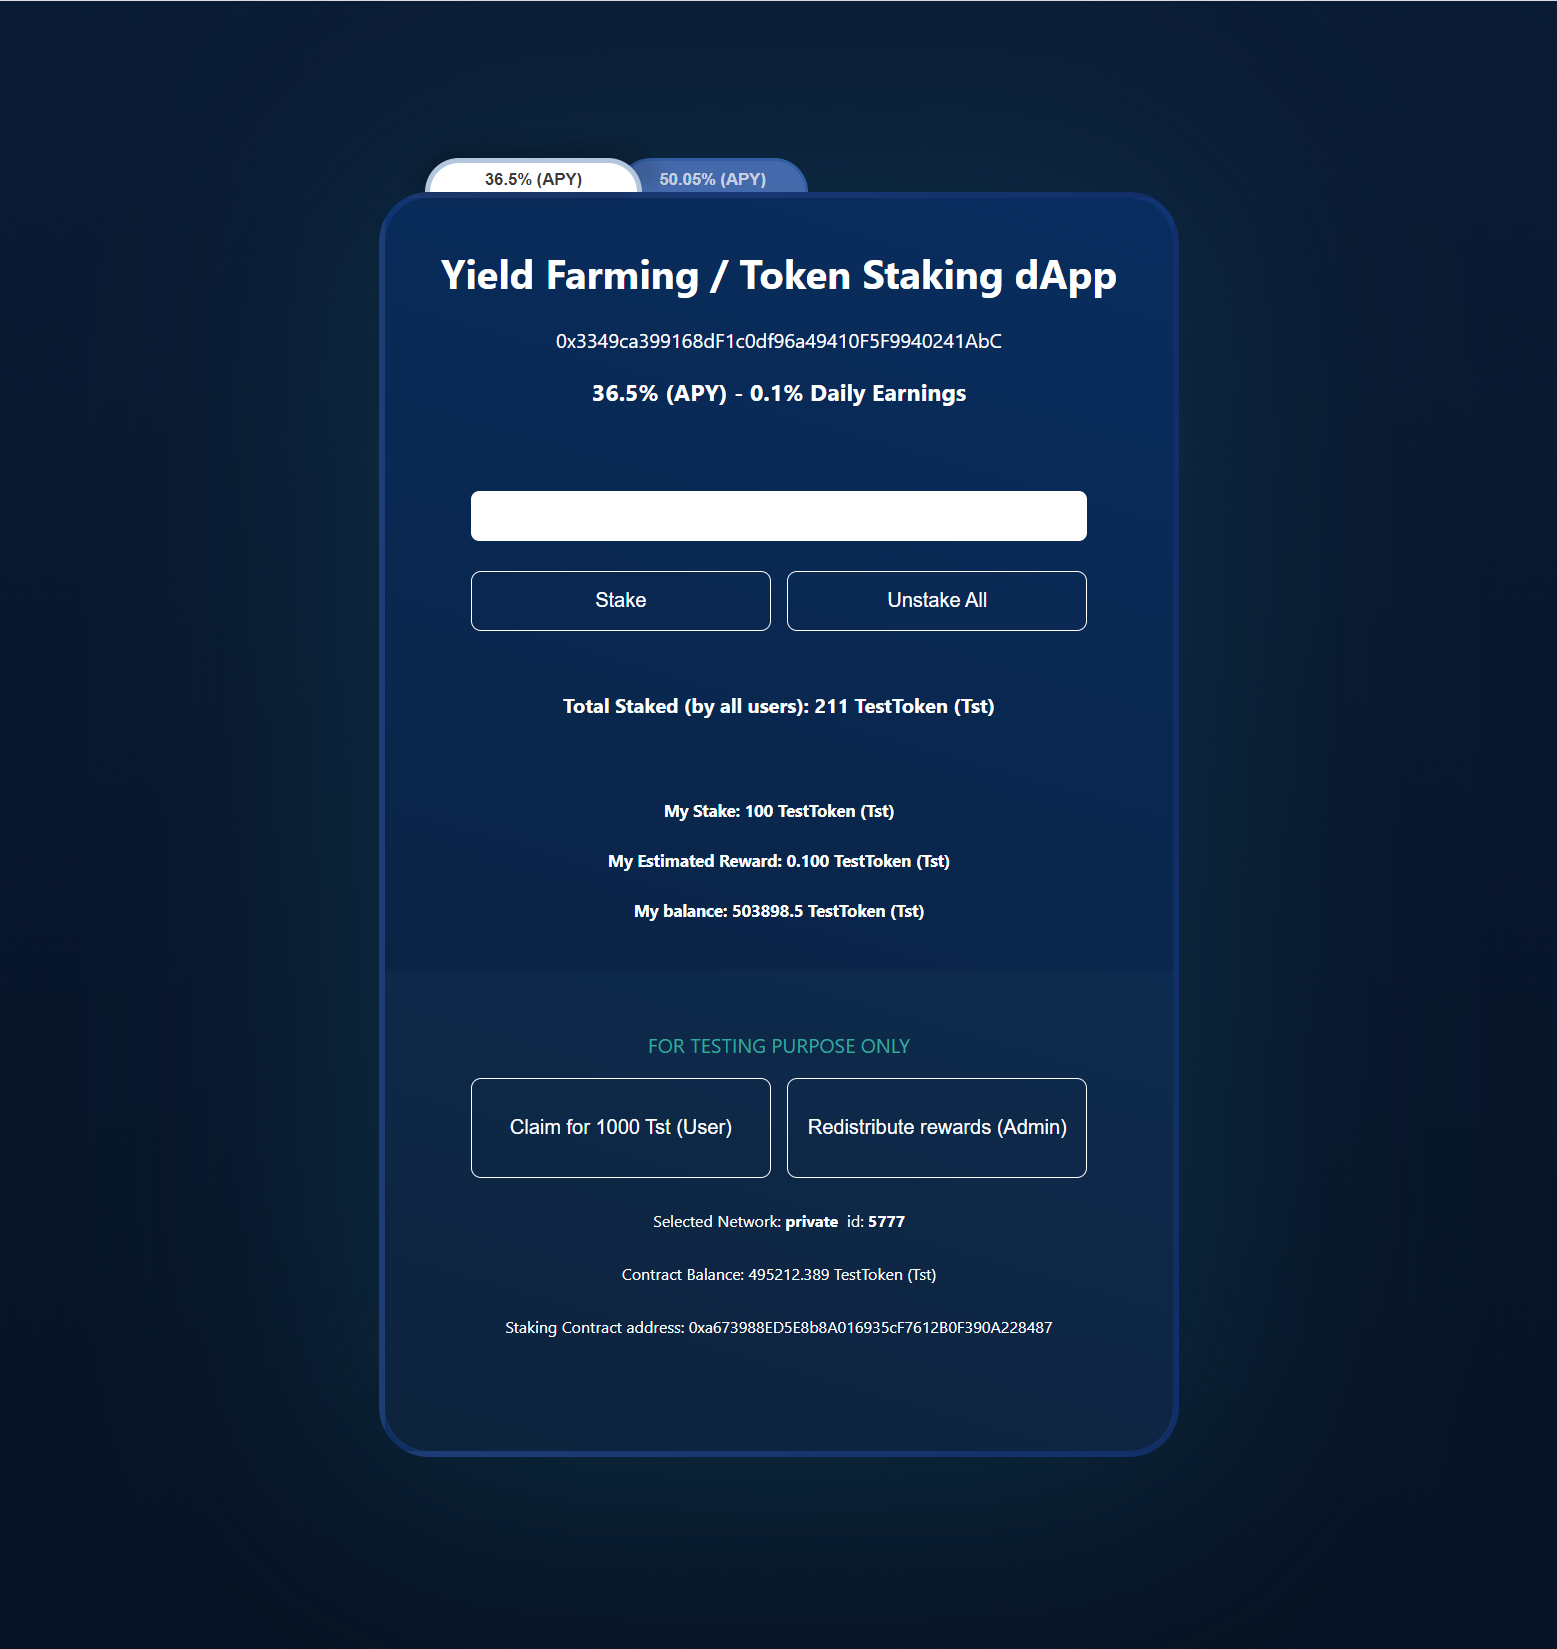
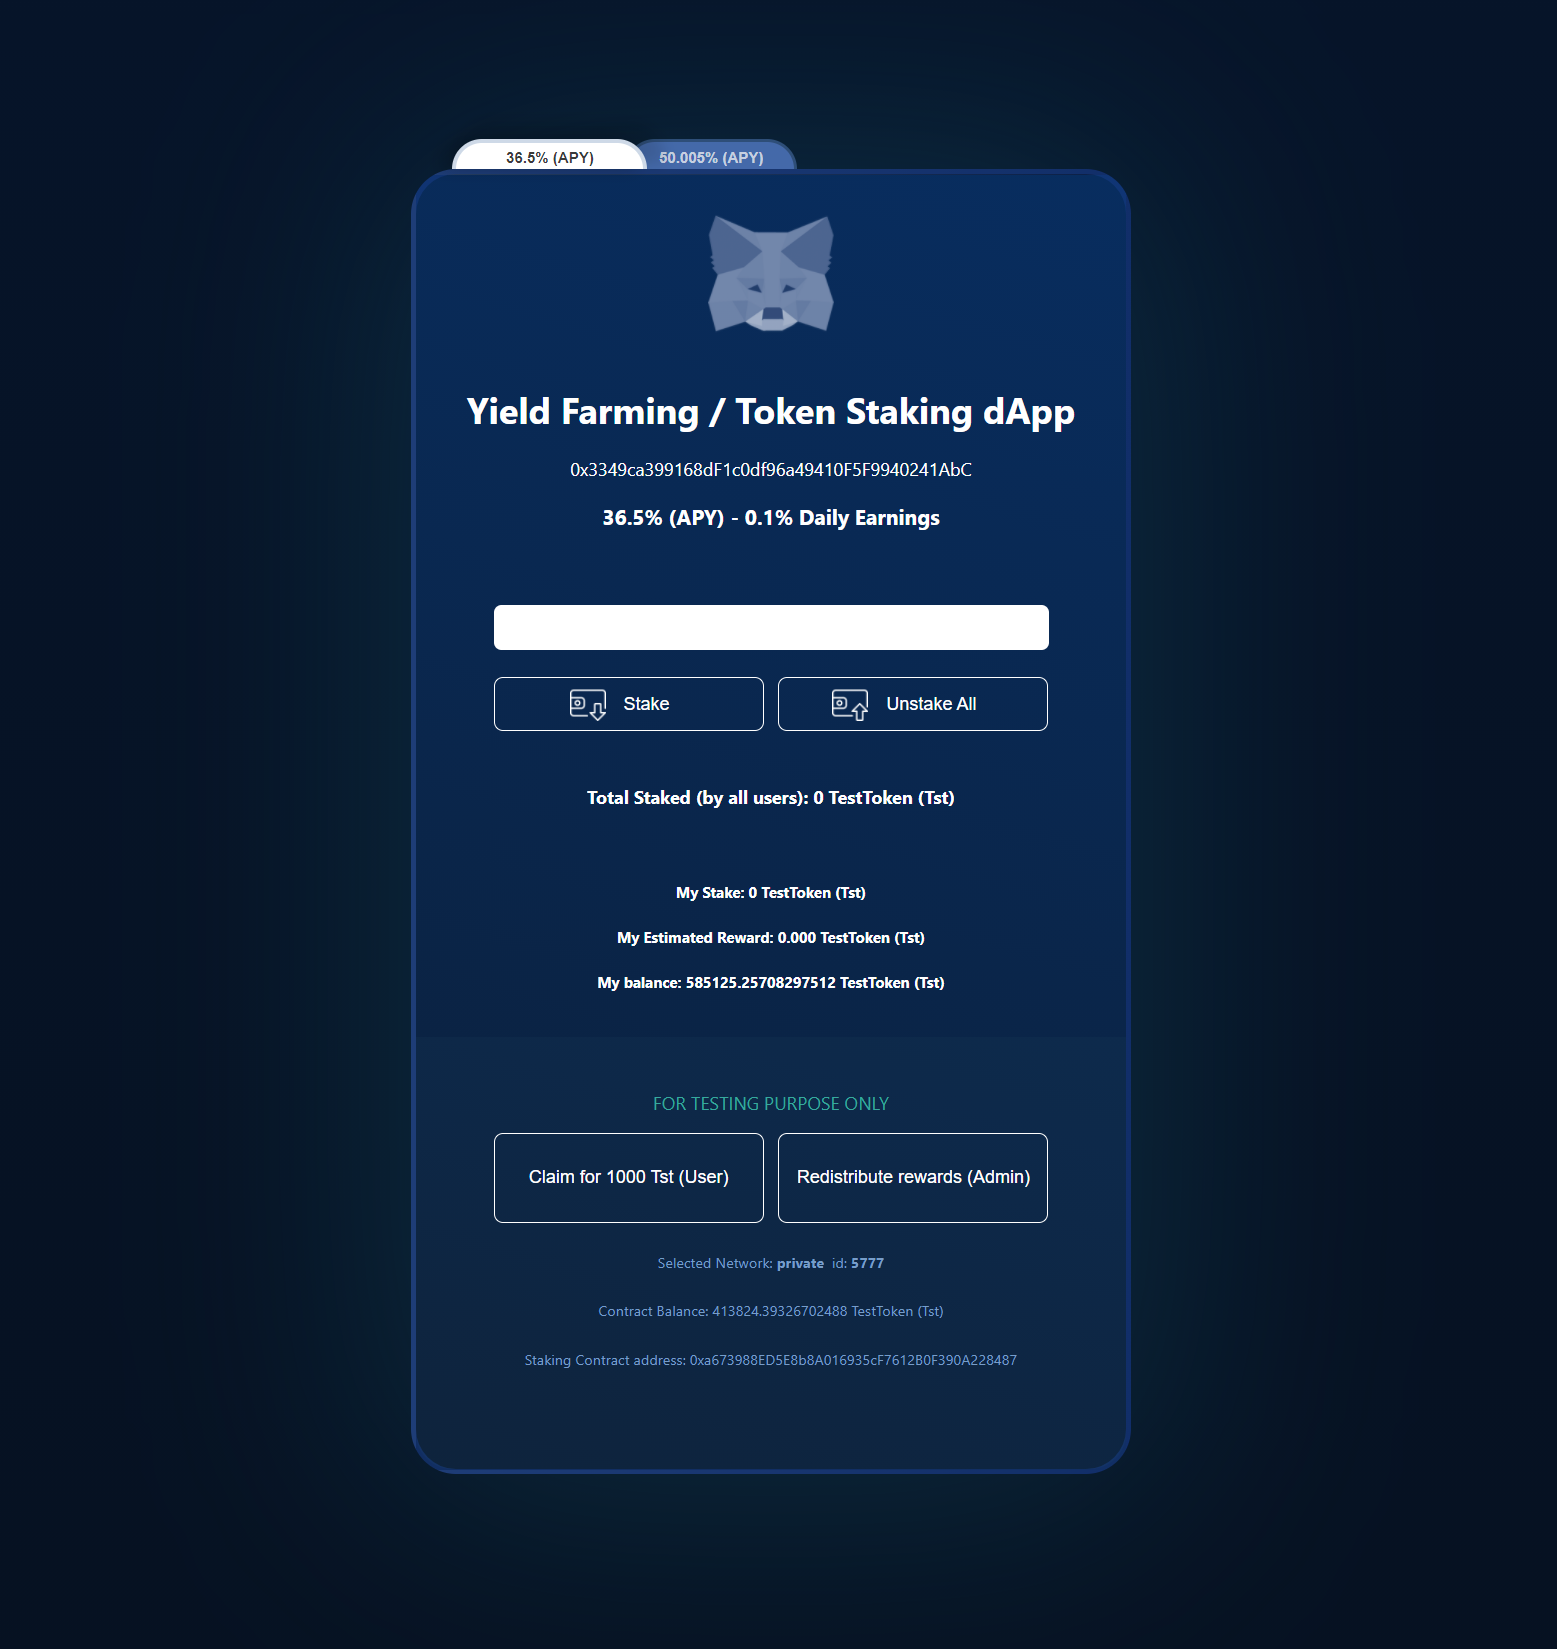
finished

Changed region(s): [[0.2158, 0.0619, 0.7707, 0.8969], [0.3391, 0.4639, 0.6782, 0.8351]]

diff --git a/src/App.js b/src/App.js
@@ -13,13 +13,13 @@ const App = () => {
   const [testTokenContract, setTestTokenContract] = useState('');
   const [tokenStakingContract, setTokenStakingContract] = useState('');
   const [inputValue, setInputValue] = useState('');
-  const [contractBalance, setContractBalance] = useState('');
+  const [contractBalance, setContractBalance] = useState('0');
   const [totalStaked, setTotalStaked] = useState([0, 0]);
   const [myStake, setMyStake] = useState([0, 0]);
   const [loader, setLoader] = useState(true);
   const [network, setNetwork] = useState({ id: '0', name: 'none' });
-  const [userBalance, setUserBalance] = useState('none');
-  const [apy, setApy] = useState([36.5, 50.05]);
+  const [userBalance, setUserBalance] = useState('0');
+  const [apy, setApy] = useState([0, 0]);
   const [page, setPage] = useState(1);
 
   useEffect(() => {
@@ -158,10 +158,8 @@ const App = () => {
   const changePage = () => {
     if (page === 1) {
       setPage(2);
-      console.log('page set to 2');
     } else if (page === 2) {
       setPage(1);
-      console.log('page set to 1');
     }
   };
 
@@ -177,6 +175,7 @@ const App = () => {
         .send({ from: account })
         .on('transactionHash', (hash) => {
           if (page === 1) {
+       
             tokenStakingContract.methods
               .stakeTokens(convertToWei)
               .send({ from: account })
@@ -193,6 +192,7 @@ const App = () => {
                 fetchDataFromBlockchain();
               });
           } else if (page === 2) {
+     
             tokenStakingContract.methods
               .customStaking(convertToWei)
               .send({ from: account })
@@ -211,12 +211,13 @@ const App = () => {
           }
         })
         .on('error', function(error) {
+          setLoader(false);
           console.log('Error Code:', error.code);
           console.log(error.message);
-          setLoader(false);
+      
         });
 
-      setLoader(false);
+  
       setInputValue('');
     }
   };
@@ -299,6 +300,32 @@ const App = () => {
         setLoader(false);
       });
   };
+
+  const redistributeCustomRewards = async () => {
+    setLoader(true);
+    tokenStakingContract.methods
+      .customRewards()
+      .send({ from: account })
+
+      .on('transactionHash', (hash) => {
+        setLoader(false);
+        fetchDataFromBlockchain();
+      })
+      .on('receipt', (receipt) => {
+        setLoader(false);
+        fetchDataFromBlockchain();
+      })
+      .on('confirmation', (confirmationNumber, receipt) => {
+        setLoader(false);
+        fetchDataFromBlockchain();
+      })
+      .on('error', function(error) {
+        console.log('Error Code:', error.code);
+        console.log(error.code);
+        setLoader(false);
+      });
+  };
+
   const claimTst = async () => {
     setLoader(true);
 
@@ -350,8 +377,11 @@ const App = () => {
             network={network}
             tokenStakingContract={tokenStakingContract}
             contractBalance={contractBalance}
-            redistributeRewards={redistributeRewards}
+            redistributeRewards={
+              page === 1 ? redistributeRewards : redistributeCustomRewards
+            }
             claimTst={claimTst}
+            page={page}
           />
         </div>
       </div>

diff --git a/src/components/Staking.js b/src/components/Staking.js
@@ -1,5 +1,8 @@
 import React, { useState } from 'react';
 import classes from './Staking.module.css';
+import stakeIcon from '../assets/stake.png';
+import unstakeIcon from '../assets/unstake.png';
+import icon from '../assets/icon.png';
 
 const Staking = (props) => {
   const [inputValue, setInputValue] = useState('');
@@ -17,7 +20,8 @@ const Staking = (props) => {
 
   return (
     <div className={classes.Staking}>
-      <h1>Yield Farming / Token Staking dApp</h1>
+      <img src={icon} alt="logo" className={classes.icon} />
+      <h1>  Yield Farming / Token Staking dApp</h1>
       <p>{props.account}</p>
       <h3>
         {props.apy}% (APY) - {props.apy / 365}% Daily Earnings
@@ -39,11 +43,13 @@ const Staking = (props) => {
           setInputValue('');
         }}
       >
-        Stake
+        <img src={stakeIcon} alt="stake icon" className={classes.stakeIcon} />
+        <p>Stake</p>
       </button>
       &nbsp; &nbsp;
       <button className={classes.unstakeButton} onClick={props.unStakeHandler}>
-        Unstake All
+      <img src={unstakeIcon} alt="unstake icon" className={classes.stakeIcon} />
+        <p>Unstake All</p>
       </button>
       <div className={classes.totals}>
         <h4>
@@ -53,8 +59,8 @@ const Staking = (props) => {
         <div>&nbsp;</div>
         <h5>My Stake: {props.myStake} TestToken (Tst) </h5>
         <h5>
-          My Estimated Reward: {(props.myStake * 0.001).toFixed(3)} TestToken
-          (Tst){' '}
+          My Estimated Reward:{' '}
+          {((props.myStake * props.apy) / 36500).toFixed(3)} TestToken (Tst){' '}
         </h5>
         <h5 onClick={goMax} className={classes.goMax}>
           My balance: {props.userBalance} TestToken (Tst){' '}
@@ -63,5 +69,5 @@ const Staking = (props) => {
     </div>
   );
 };
-
+//My balance: 504304.394968082 TestToken (Tst)
 export default Staking;

diff --git a/src/components/Staking.module.css b/src/components/Staking.module.css
@@ -1,6 +1,12 @@
 .Staking h1 {
   margin-top: 1.2em;
 }
+.icon {
+    height: 7em;
+    margin-top: 2em;
+    opacity: 0.8;
+
+}
 
 /* ......... */
 .inputDiv {
@@ -16,6 +22,7 @@
   border-radius: 0.5em;
   border: none;
   text-align: center;
+
 }
 input:focus {
   outline: none;
@@ -42,25 +49,44 @@ input:focus {
   width: 15em;
   margin-top: 1em;
   cursor: pointer;
-  }
-  .stakeButton:hover {
-    background-color: #2675cf;
+}
 
-  }
+.stakeButton:hover {
+  background-color: #2675cf;
+}
 
-  
-  .unstakeButton {
-    background-color: rgba(255, 255, 255, 0);
-    color: white;
-    font-size: 1em;
-    border: white solid 0.05em;
-    border-radius: 0.5em;
-    height: 3em;
-    width: 15em;
-    cursor: pointer;
-  }
+.unstakeButton {
+  background-color: rgba(255, 255, 255, 0);
+  color: white;
+  font-size: 1em;
+  border: white solid 0.05em;
+  border-radius: 0.5em;
+  height: 3em;
+  width: 15em;
+  margin-top: 1em;
+  cursor: pointer;
+}
 
-  .unstakeButton:hover {
-    background-color: #1c375f;
+.unstakeButton:hover {
+  background-color: #1c375f;
+}
 
+.stakeIcon {
+  height: 2em;
+  position: relative;
+  top: 0.1em;
+  right: 1em;
+
+}
+
+.stakeButton p {
+  display: inline;
+  position: relative;
+  bottom: 0.5em;
+}
+
+.unstakeButton p {
+    display: inline;
+    position: relative;
+    bottom: 0.5em;
   }

diff --git a/src/components/Navigation.js b/src/components/Navigation.js
@@ -5,8 +5,11 @@ const Navigation = (props) => {
   const [poolStatus, setPoolStatus] = useState('default');
 
   const changePool = (val) => {
-    setPoolStatus(val);
-    props.changePage();
+    if (val === poolStatus) {
+    } else {
+      setPoolStatus(val);
+      props.changePage();
+    }
   };
 
   return (
@@ -21,7 +24,7 @@ const Navigation = (props) => {
           changePool('default');
         }}
       >
-         {props.apy[0]}% (APY)
+        {props.apy[0]}% (APY)
       </button>
       <button
         className={
@@ -33,7 +36,7 @@ const Navigation = (props) => {
           changePool('custom');
         }}
       >
-           {props.apy[1]}% (APY)
+        {props.apy[1]}% (APY)
       </button>
     </div>
   );

diff --git a/src/components/AdminTesting.js b/src/components/AdminTesting.js
@@ -8,7 +8,7 @@ const AdminTesting = (props) => {
       <button onClick={props.claimTst}>Claim for 1000 Tst (User)</button>
       &nbsp; &nbsp;
       <button onClick={props.redistributeRewards}>
-        Redistribute rewards (Admin)
+       {props.page === 1 ? `Redistribute rewards (Admin)` : `Custom redistribution (Admin)`} 
       </button>
       <div className={classes.network}>
         <p>

diff --git a/src/components/AdminTesting.module.css b/src/components/AdminTesting.module.css
@@ -26,6 +26,6 @@
   background-color: rgba(255, 255, 255, 0.068);
 }
 .network p {
-  color: white;
+  color: rgb(119, 157, 201);
   font-size: 0.8em;
 }

diff --git a/README.md b/README.md
@@ -42,14 +42,16 @@
 - [x] Deployed on ropsten and rinkeby
 * 
 - [x] Different staking pool implemented customStake/customUnstake
-- [x] Implemented ability for admin to change custom pool APY value
+- [x] Implemented ability for admin to change custom pool APY value via script
 * 
 - [x] Implemented custom reward Pool redistribution
 - [x] Contract Source Code Verified (Exact Match)
 * 
-- [ ] Add frontend for custom pool
-- [ ] Add loader, indicator
-- [ ] Split components in to smaller
+- [x] Components split in to smaller
+- [x] Added frontend logic for custom pools
+- [x] Added UI Elements
+- [x] Loaders fixed
+* 
 - [ ] Add clear running description
 
 
